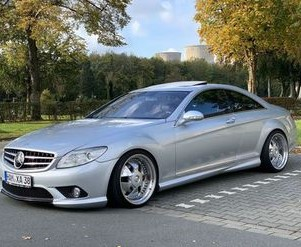
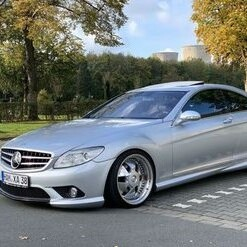
alignment

diff --git a/styles/style.css b/styles/style.css
@@ -39,12 +39,12 @@ body{
 .right-container{
   display:grid;
   grid-template-rows: 20% 20% 20% 20% 20%;
-  grid-template-columns: 300px;
+  grid-template-columns: 600px;
 }
 
 .upgrade-container{
   display: grid;
-  grid-template-columns: 40% 60%;
+  grid-template-columns: 100px 400px;
   grid-template-rows: 1fr;
   grid-template-areas: 
     "image text";
@@ -52,8 +52,7 @@ body{
 
 .upgrade-container img{
   grid-area: image;
-  max-width: 100%;
-  width: 100%;
+  max-height: 100%;
   height: 100%;
 }
 
